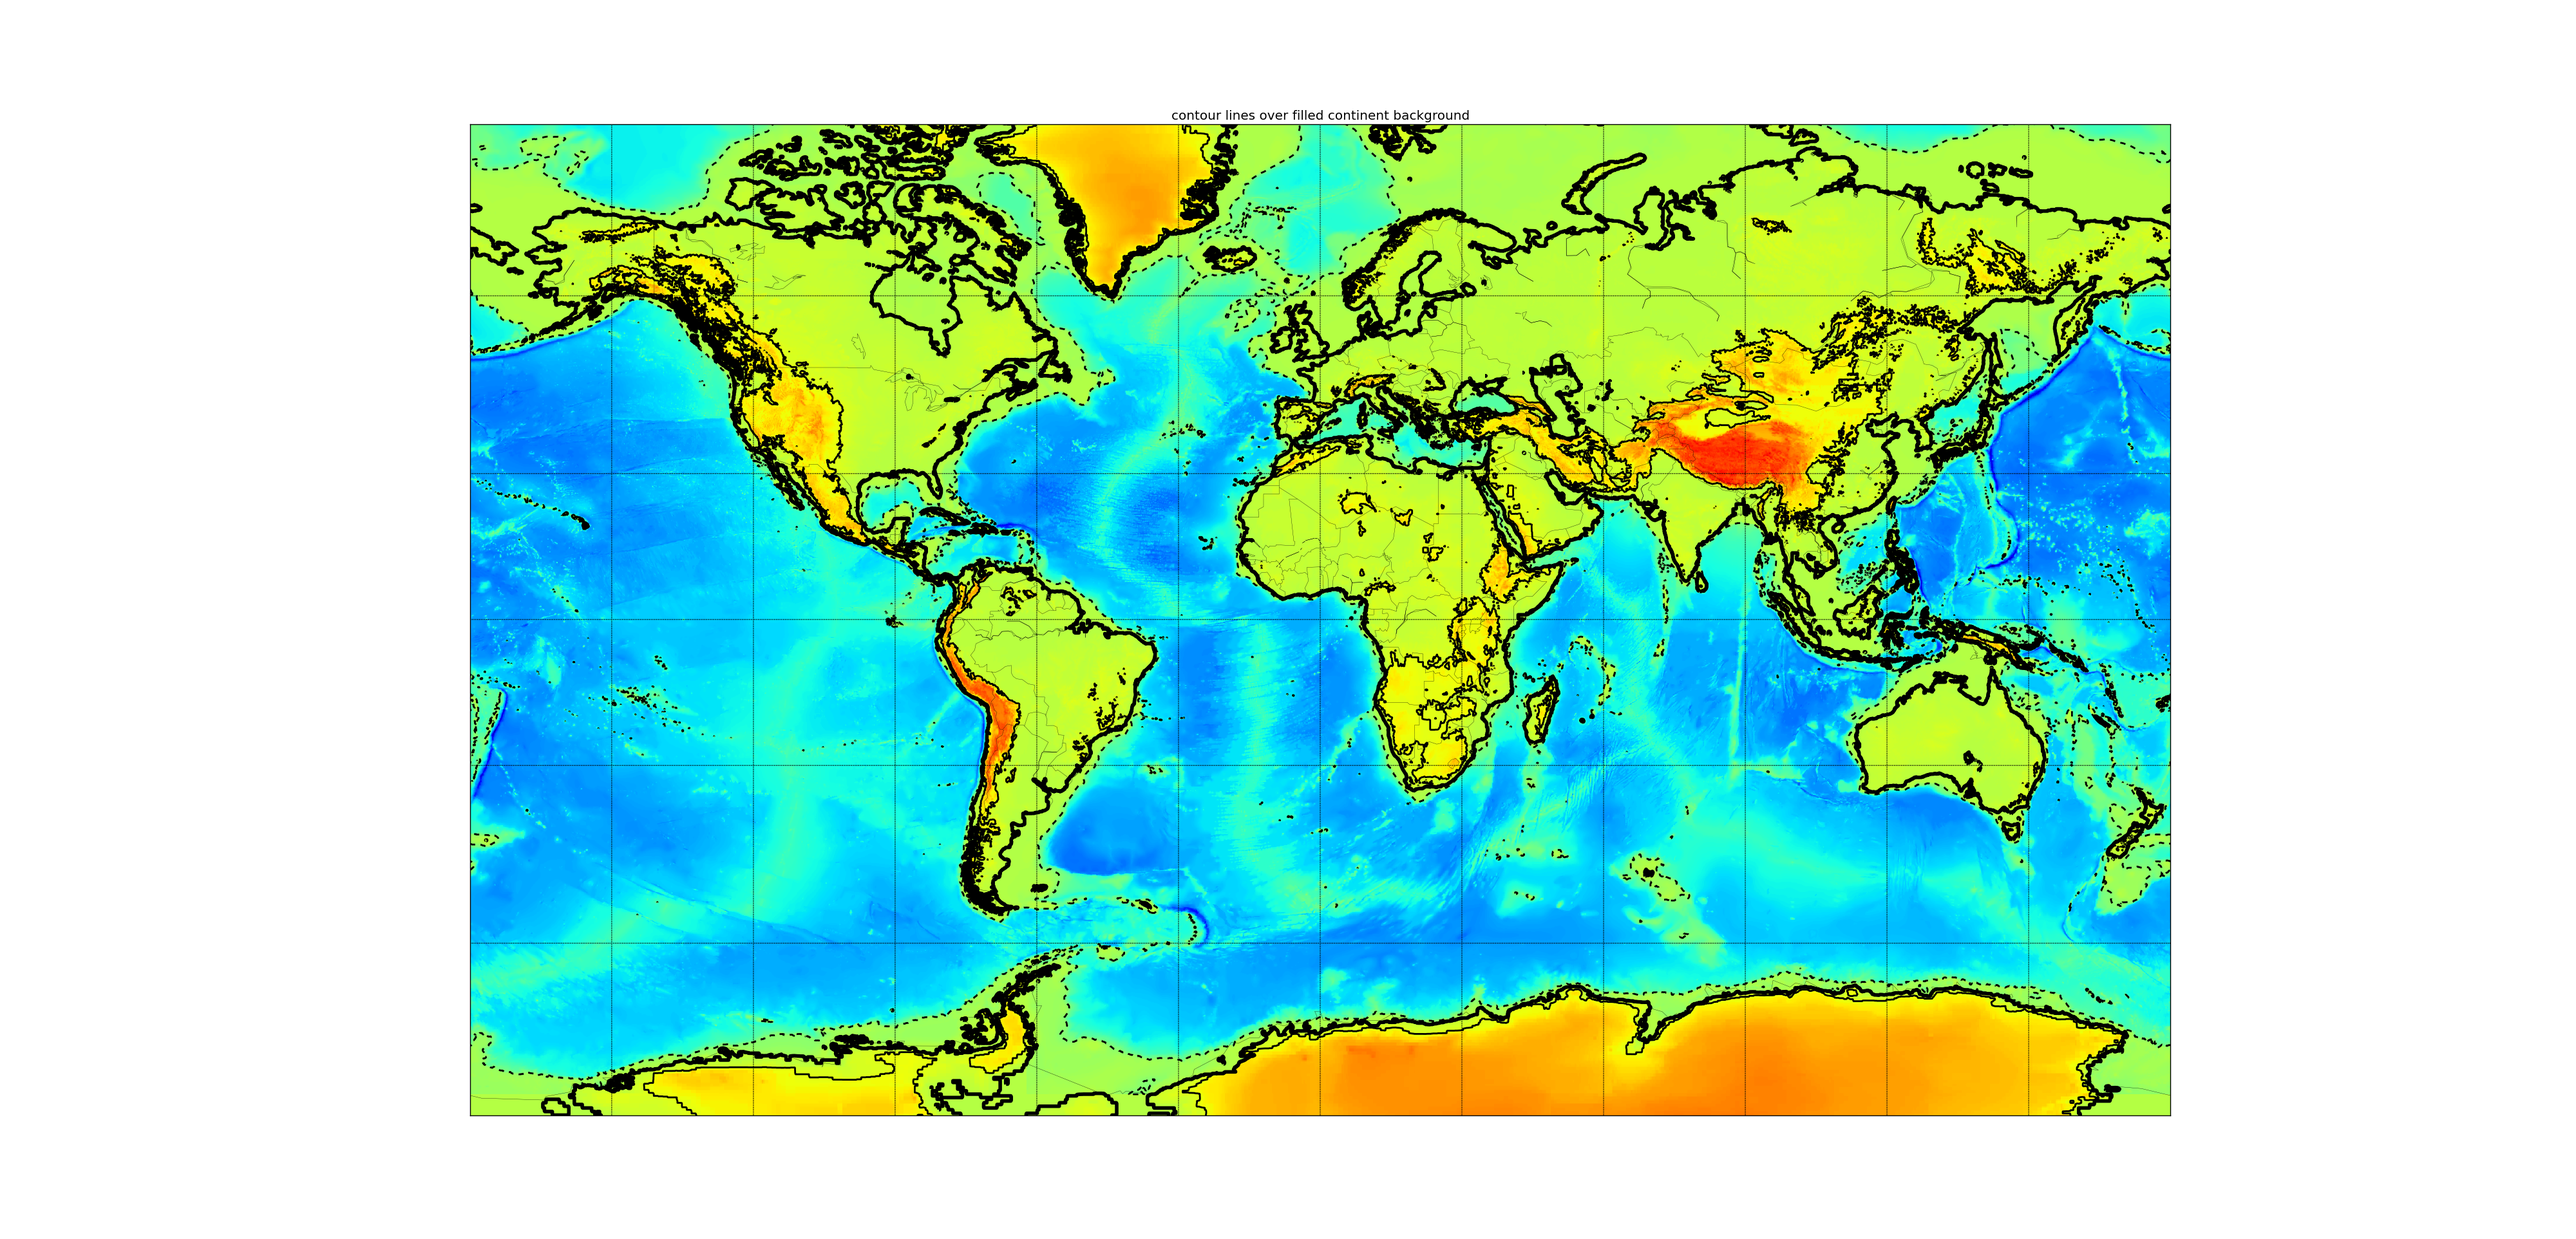
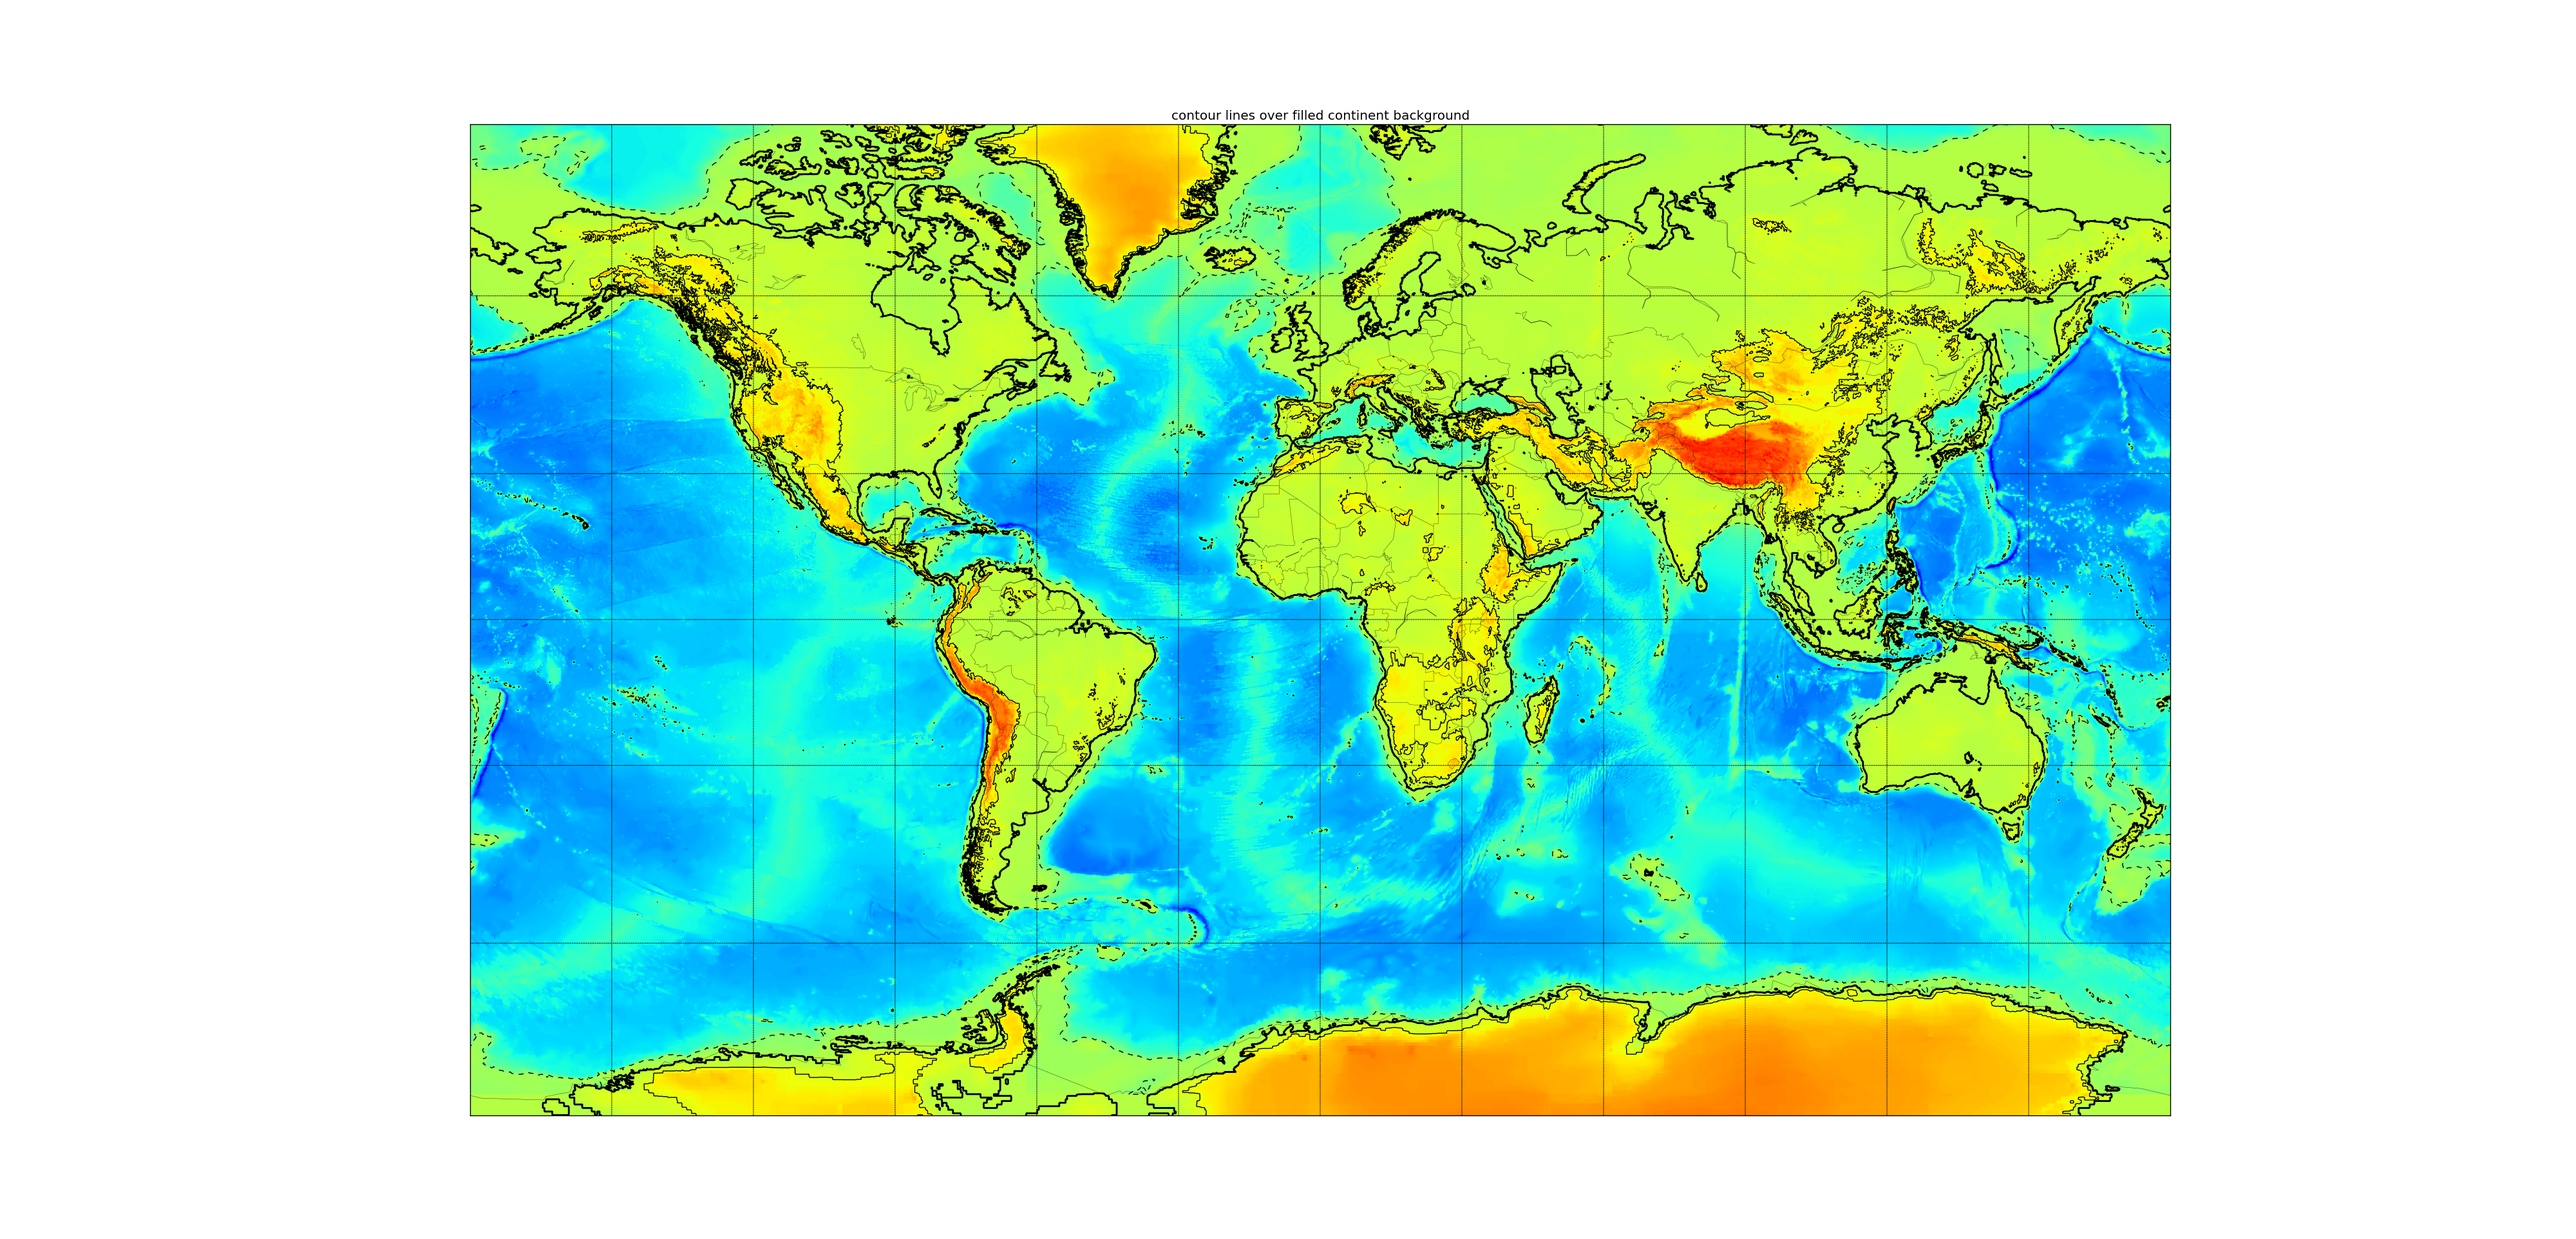
counter line width change

diff --git a/hw2/hw2_5.py b/hw2/hw2_5.py
@@ -31,6 +31,6 @@ lon,lat=np.meshgrid(lons,lats)
 x,y=map(lon,lat)
 plt.pcolormesh(x, y, topoin)
 levels=[-1000,0,1000]
-cs = map.contour(x,y,topoin,levels,linewidths=[2, 4, 2],colors='k')
+cs = map.contour(x,y,topoin,levels,linewidths=[1, 2, 1],colors='k')
 
 plt.show()
